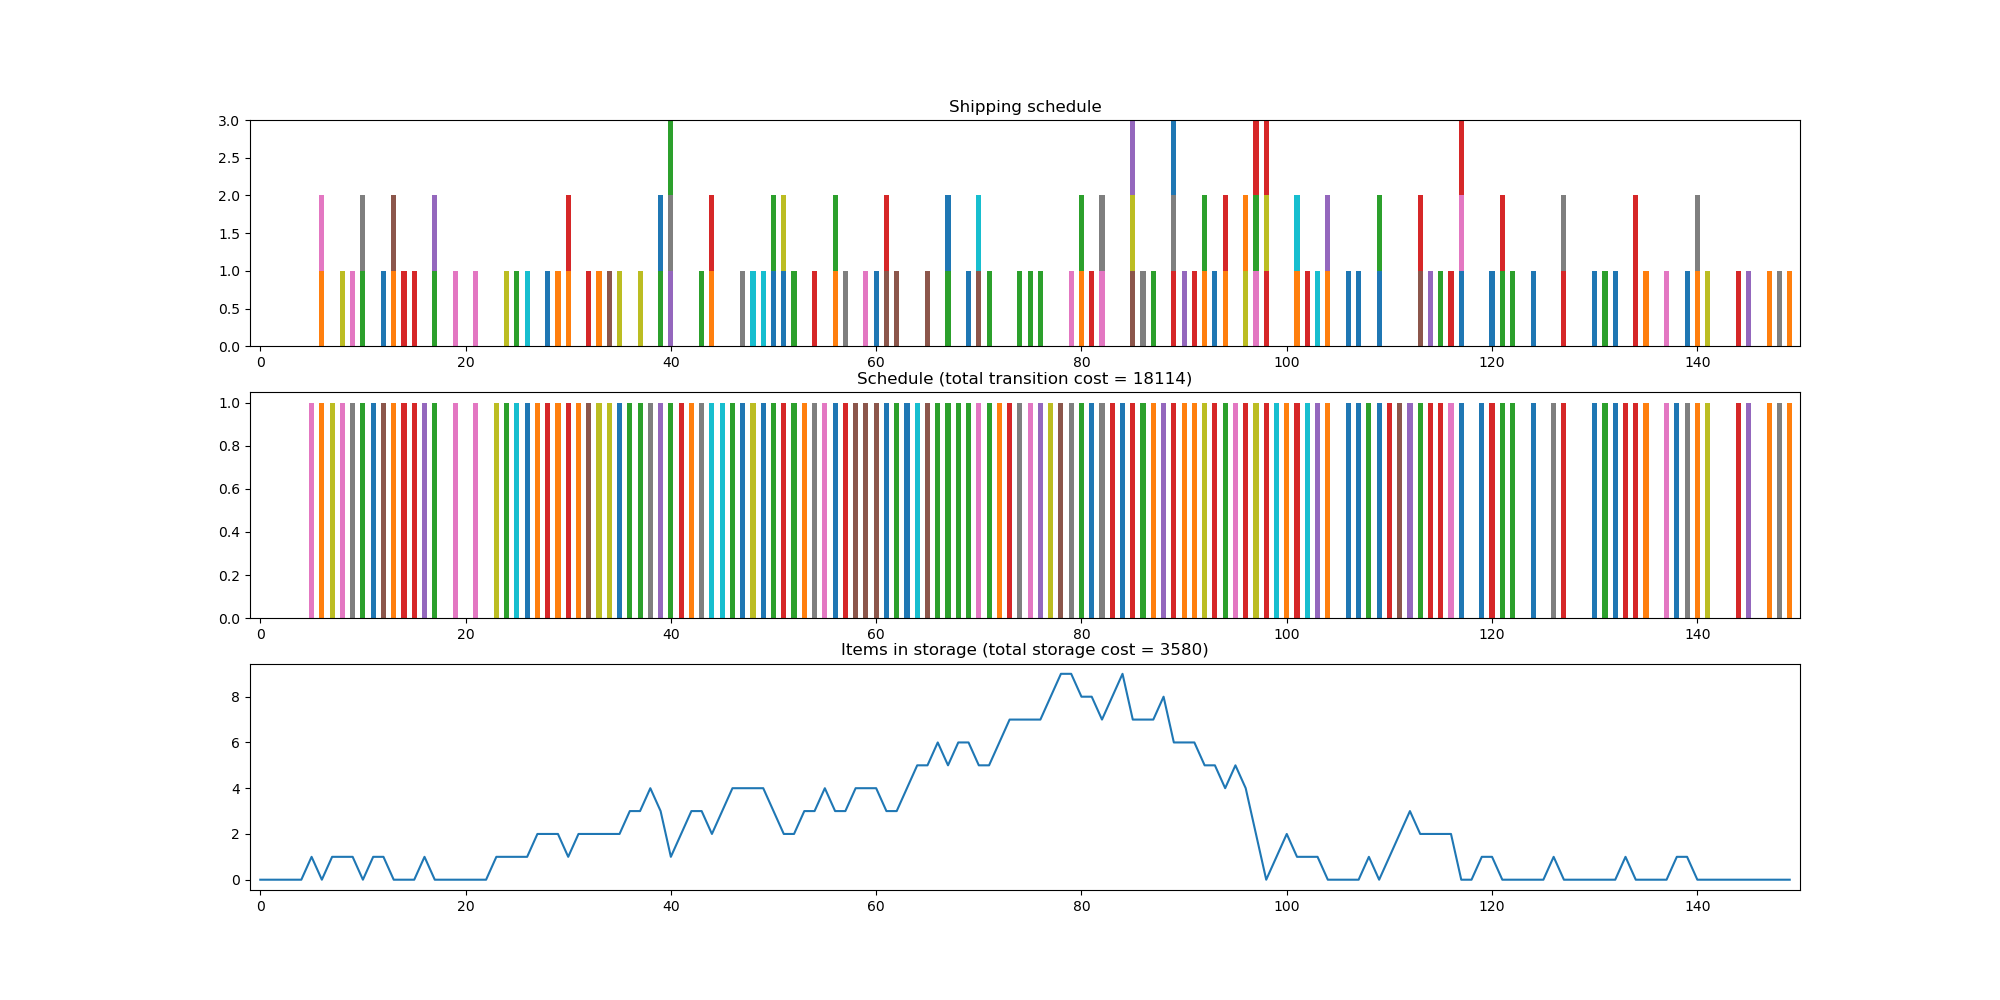
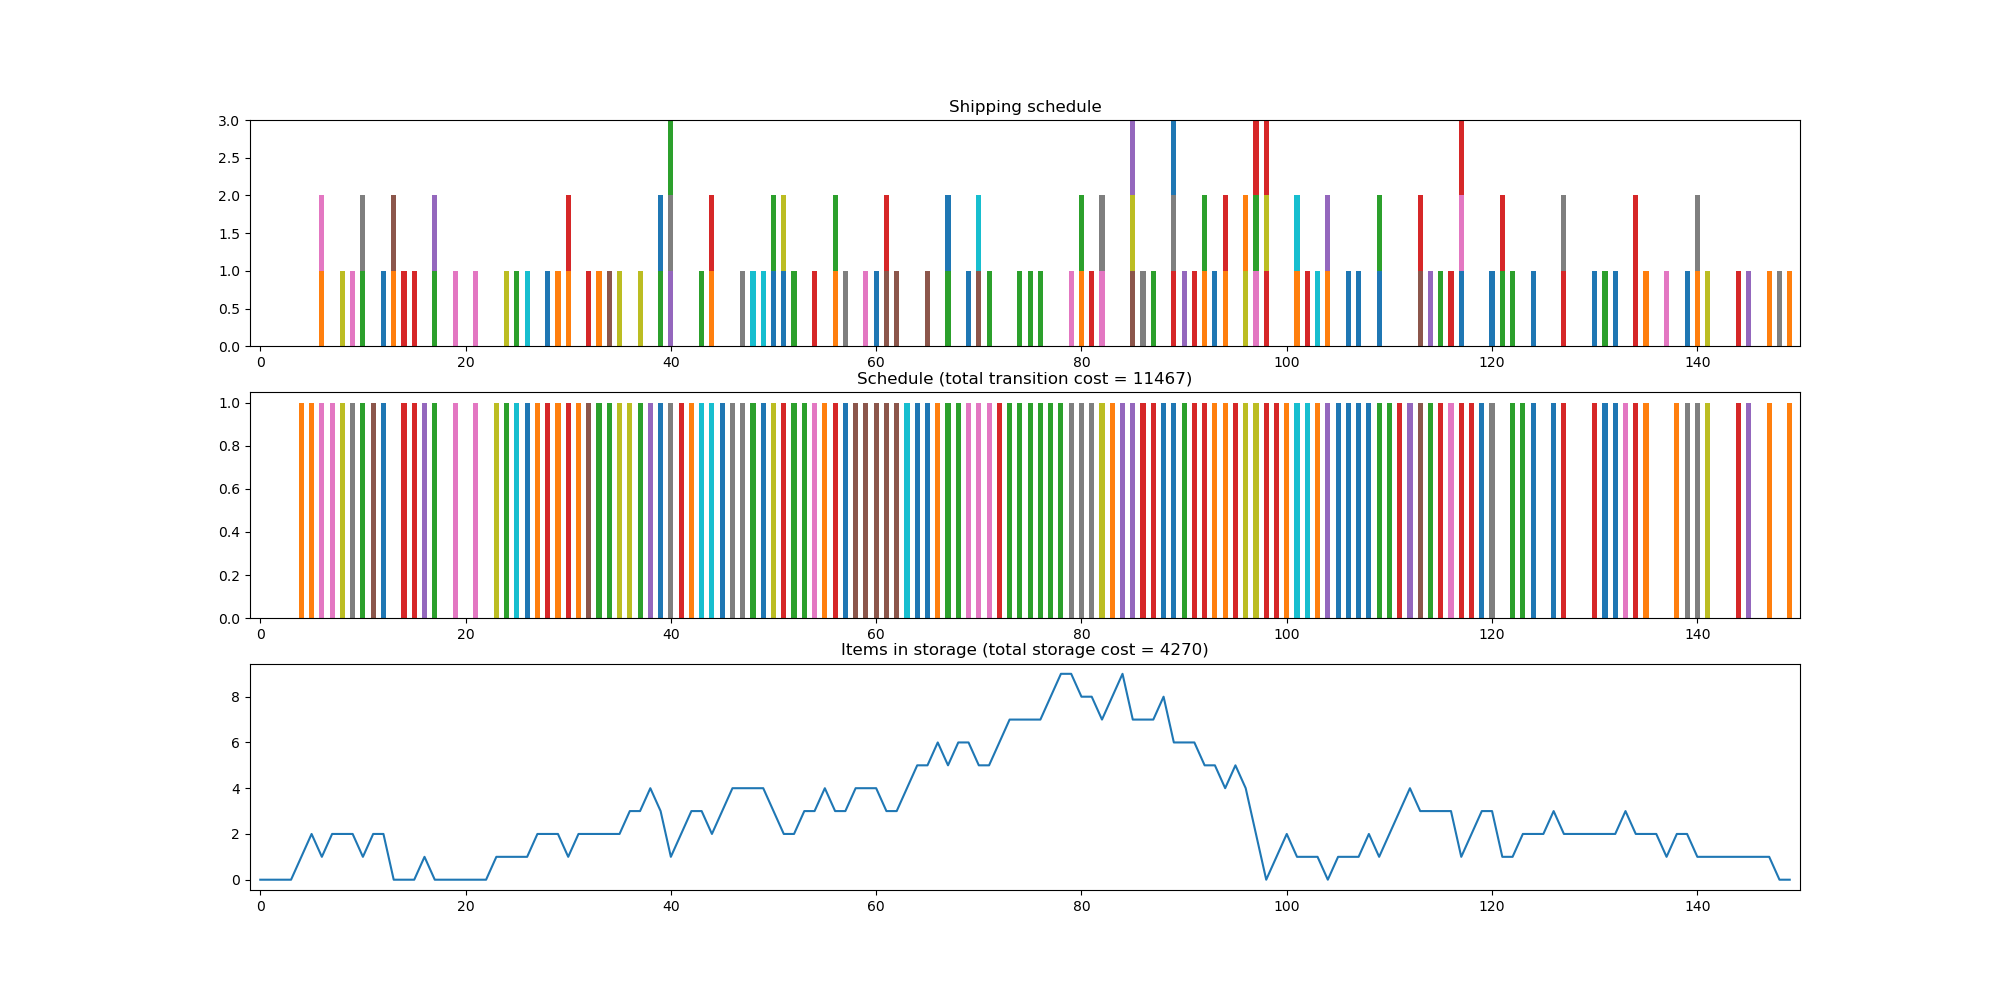
LNS with reheat

diff --git a/code/solver.py b/code/solver.py
@@ -57,10 +57,17 @@ def destroy(s,pyg,nb_destroyed_var):
     l = len(s) # nb of days
     items_removed = []
     index_of_items = []
+    center = random.randint(0,l-1) # for ND dépendance
     for _ in range(nb_destroyed_var):
         
         # ND aléatoire
-        i = random.randint(0,l-1)
+        # i = random.randint(0,l-1)
+
+        # ND dépendance (variables qui ont les mêmes carac) = toutes les variables dans une période de temps
+        to_add = 6
+        i = random.randint(max(0,center - nb_destroyed_var - to_add), min(l-1, center + nb_destroyed_var + to_add)) 
+        # on prend au hasard mais proche du centre (à +/- le nb d'élément à détruire)
+        # permet que la destruction se fasse dans une periode de temps
 
         while i in index_of_items:
             i = random.randint(0,l-1)
@@ -68,7 +75,6 @@ def destroy(s,pyg,nb_destroyed_var):
         items_removed.append(s[i])
     return items_removed,index_of_items
 
-    # - dépendance (variables qui ont les mêmes carac) = toutes les variables dans une période de temps
     # - critique (variables qui induisent une hausse de cout) = transition engendre haut cout par exemple
     return
 
@@ -86,7 +92,6 @@ def reconstruct(s,pyg,items_removed,index_of_items):
             if score < best_score:
                 best_score = score
                 best_s = copy.deepcopy(s)
-                print("UPDATE")
     return best_s
 
 def acceptSolution(sp,s,pyg,T):
@@ -103,22 +108,30 @@ def LNS(pyg):
 
     #########################
     # HYPERPARAMETRES
-    iterations = 10
-    nb_destroyed_var = 5
-    temperature = 3
-    alphaT = 0.9
+    iterations = 5000
+    nb_destroyed_var = 3
+    temperature = 4
+    alphaT = 0.95
+    reheat = 3
+    iterations_to_reheat = 50
     #########################
-
+    no_change_iter = 0
 
     for k in range(iterations):
-        print(k)
+        if k%10 == 0:
+            print(f"Iter {k}, best solution's cost : {pyg.solution_total_cost(star)}")
         items_removed,index_of_items = destroy(s,pyg,nb_destroyed_var)
         sp = reconstruct(s,pyg,items_removed,index_of_items)
         if acceptSolution(sp,s,pyg,temperature):
             s = sp
+            no_change_iter = 0
         if pyg.solution_total_cost(sp) < score_star:
             star = sp
         temperature *= alphaT
+        if s == star: no_change_iter += 1
+        if no_change_iter > iterations_to_reheat:
+            temperature += reheat
+            no_change_iter
     return star,pyg.solution_total_cost(star)
 
 
